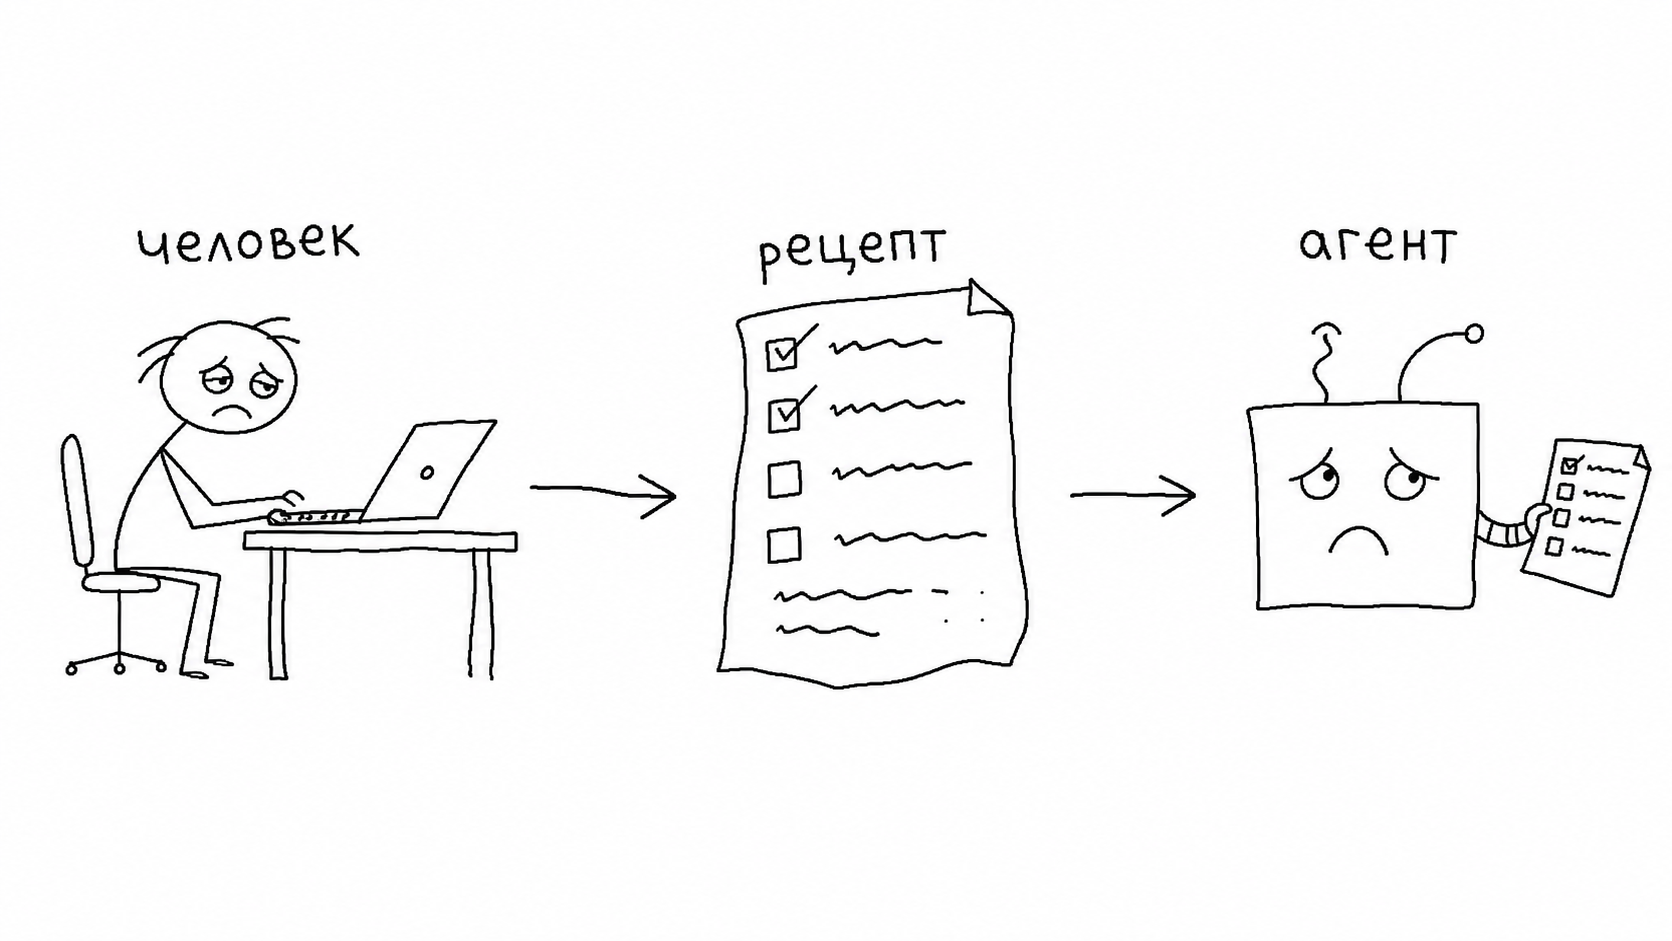
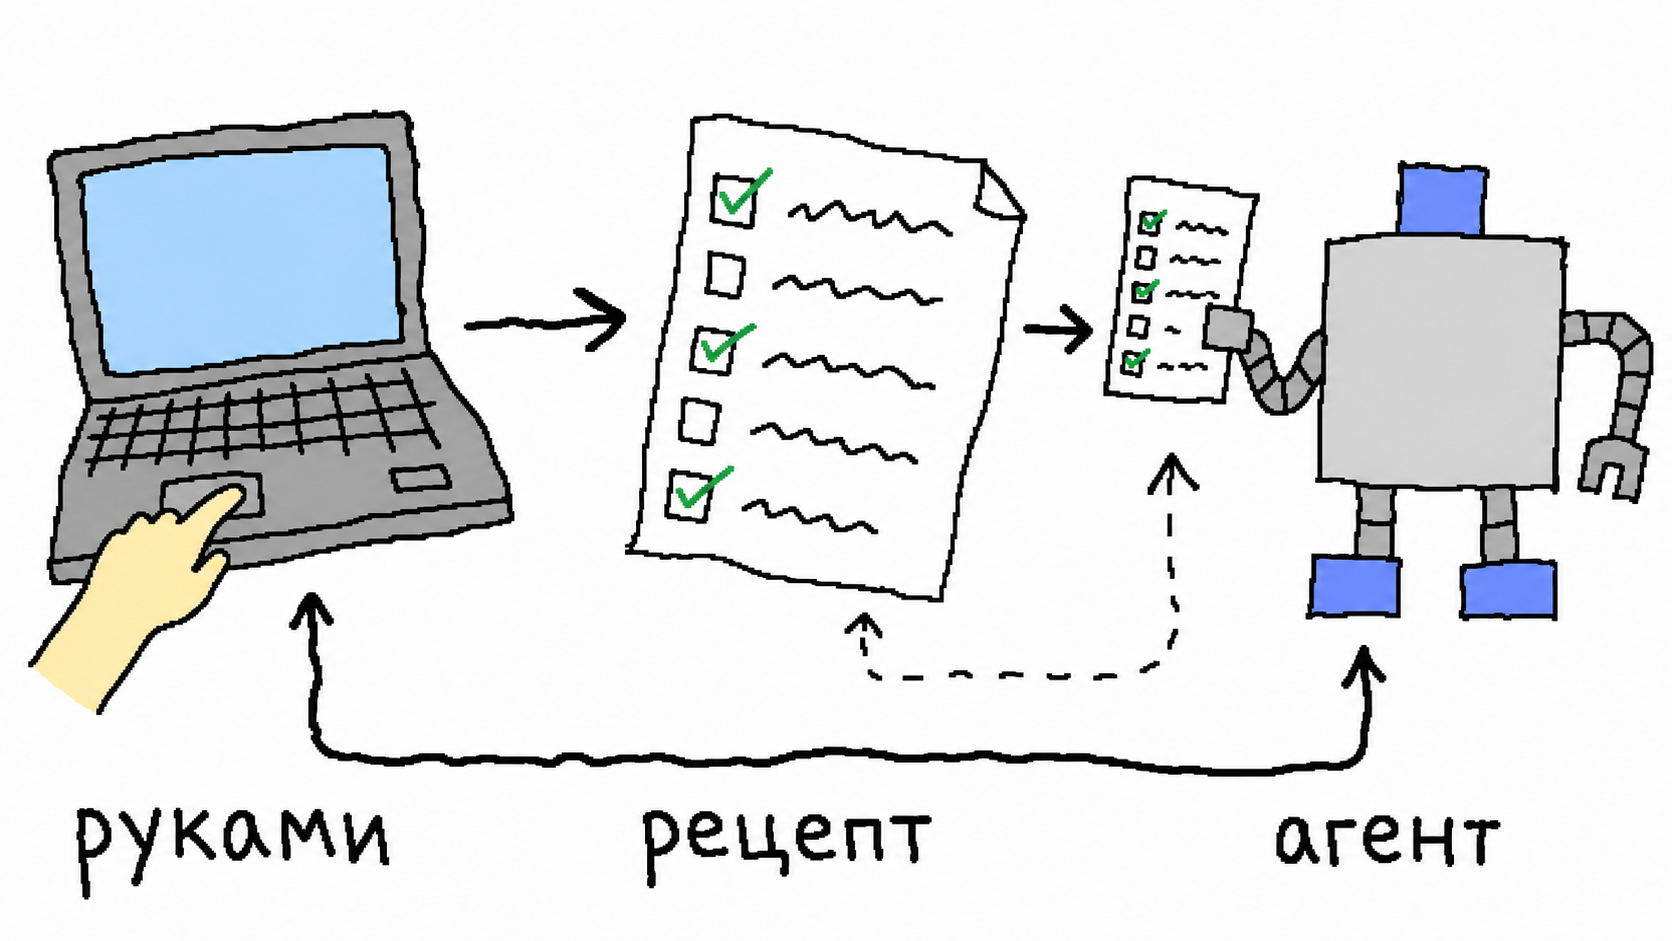
docs: localize pipeline article visuals

diff --git a/content/blog/pipeline-born-by-hand.md b/content/blog/pipeline-born-by-hand.md
@@ -1,7 +1,7 @@
 ---
 title: "Почему автоматизация не работает без рецепта"
 date: 2026-07-08
-description: "Пайплайн для AI-агента появляется после первого живого прогона: текст, репетиция, dry-run, проверка и только потом делегирование."
+description: "Пайплайн для AI-агента появляется после первого живого прогона: текст, репетиция отправки, проверка лимитов, чтение результата и только потом делегирование."
 tags: ["вайбкодинг", "ai-agents", "автоматизация", "runbook"]
 image: "/images/blog/pipeline-born-by-hand-preview.webp"
 cta: none
@@ -14,9 +14,9 @@ cta_reason: "Статья образовательная; продуктовый
 
 Но красивая версия появилась позже. Сначала мы с агентом прошли цепочку шаг за шагом, поймали ограничения платформы, записали рецепт и проверки. Только после этого стало понятно, что можно отдавать агенту, а что должно остаться отдельным контролем.
 
-В этой статье пайплайн значит не «автоматизация» и не «красивый список шагов». Пайплайн это повторяемая цепочка с входом, понятными действиями, проверкой и памятью результата. Его можно отдать агенту только тогда, когда уже ясно, что считается готово, где нужен dry-run и куда записывать итог.
+В этой статье пайплайн значит не «автоматизация» и не «красивый список шагов». Пайплайн это повторяемая цепочка с входом, понятными действиями, проверкой и памятью результата. Его можно отдать агенту только тогда, когда уже ясно, что считается готово, где нужен тестовый прогон и куда записывать итог.
 
-![Кривая MS Paint-иллюстрация: человек вручную проходит задачу, пишет рецепт, агент получает этот рецепт](/images/blog/pipeline-born-by-hand-manual-run.webp)
+![Кривая MS Paint-иллюстрация: ручной прогон превращается в рецепт для агента](/images/blog/pipeline-born-by-hand-manual-run.webp)
 
 ## Ошибка: автоматизировать до рецепта
 
@@ -42,18 +42,18 @@ cta_reason: "Статья образовательная; продуктовый
 
 **Шаблон копии.** У поста появилась форма: заголовок с артефактом, 1-2 абзаца сути, компактный блок «что сделали», два шага домашки, одна ссылка на материалы.
 
-**Репетиция.** Перед живой отправкой нужен тестовый прогон. Не из недоверия к агенту. Просто сообщение в реальном интерфейсе почти всегда ведёт себя чуть иначе, чем текст в голове.
+**Репетиция отправки.** Перед живой отправкой нужен тестовый прогон. Не из недоверия к агенту. Просто сообщение в реальном интерфейсе почти всегда ведёт себя чуть иначе, чем текст в голове.
 
-**Dry-run.** Перед действием агент должен показать, куда собирается отправлять, какой режим разметки использует, какой файл прикрепит и какой длины подпись.
+**Проверка перед действием.** Агент должен показать, куда собирается отправлять, какой режим разметки использует, какой файл прикрепит и какой длины подпись.
 
-**Read-back.** После отправки нужно прочитать результат обратно. Отправлено ещё не значит проверено.
+**Проверка после отправки.** После отправки нужно прочитать результат обратно. Отправлено ещё не значит проверено.
 
 В этот момент пост перестал быть разовой задачей. Он стал рабочей памяткой: как довести похожую операцию до зелёного состояния.
 
 И вот тут агент наконец полезен.
 
 {{< callout type="prompt" >}}
-Возьми текст поста и картинку. Не отправляй сразу. Сначала сделай dry-run: покажи, какой файл уйдёт, сколько символов в подписи, какой режим разметки используется и что может не влезть. Если подпись длинная, предложи сокращение без потери структуры.
+Возьми текст поста и картинку. Не отправляй сразу. Сначала сделай тестовый прогон: покажи, какой файл уйдёт, сколько символов в подписи, какой режим разметки используется и что может не влезть. Если подпись длинная, предложи сокращение без потери структуры.
 {{< /callout >}}
 
 Это уже не просьба «сделай красиво». Это управление процессом.
@@ -66,9 +66,9 @@ cta_reason: "Статья образовательная; продуктовый
 
 Я его не выбрал. Формат задачи был другим: один media-post, картинка плюс полный смысл в подписи. Если молча разбить это на два сообщения, рецепт уже сломан. Следующий прогон начнёт наследовать обходной путь, который никто не принимал как решение.
 
-Поэтому мы вернулись к источнику. Агент сжал caption до короткой версии: сохранил заголовок, четыре строки recap, два шага домашки и одну ссылку. Потом dry-run показал, что текст проходит.
+Поэтому мы вернулись к источнику. Агент сжал подпись до короткой версии: сохранил заголовок, четыре строки пересказа, два шага домашки и одну ссылку. Потом тестовый прогон показал, что текст проходит.
 
-![Кривая MS Paint-иллюстрация: dry-run находит лимит подписи до отправки поста](/images/blog/pipeline-born-by-hand-dry-run-limit.webp)
+![Кривая MS Paint-иллюстрация: тестовый прогон находит лимит подписи до отправки поста](/images/blog/pipeline-born-by-hand-test-run-limit.webp)
 
 Лимит победил красивую автоматизацию. И хорошо.
 
@@ -104,7 +104,7 @@ Runbook звучит как скучный корпоративный докум
 
 С runbook то же самое.
 
-Агент может сжать текст, собрать список шагов, проверить длину подписи, подготовить dry-run, напомнить про read-back. Но критерий «готово» должен быть записан до того, как агент побежит выполнять.
+Агент может сжать текст, собрать список шагов, проверить длину подписи, подготовить тестовый прогон, напомнить про проверку после отправки. Но критерий «готово» должен быть записан до того, как агент побежит выполнять.
 
 Иначе он просто быстрее принесёт не тот результат.
 
@@ -114,7 +114,7 @@ Runbook звучит как скучный корпоративный докум
 
 Сначала рецепт. Потом агент.
 
-Теперь, когда похожая задача повторится, мне не нужно снова объяснять всё с нуля. Есть текстовый источник, структура поста, dry-run, проверка, правило для картинки и финальный read-back.
+Теперь, когда похожая задача повторится, мне не нужно снова объяснять всё с нуля. Есть текстовый источник, структура поста, тестовый прогон, проверка, правило для картинки и финальное чтение результата.
 
 Вот это и есть пайплайн.
 